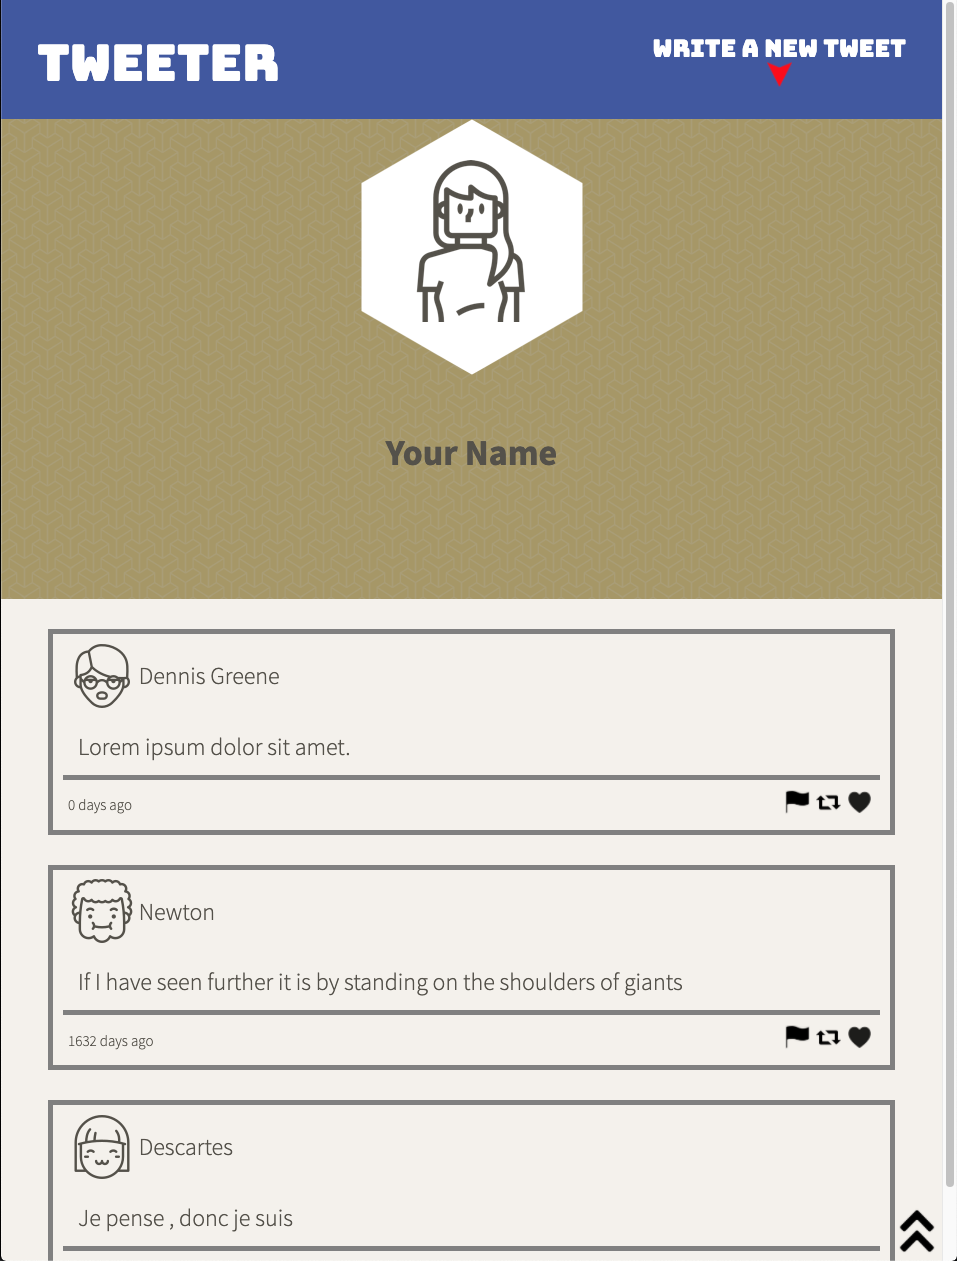
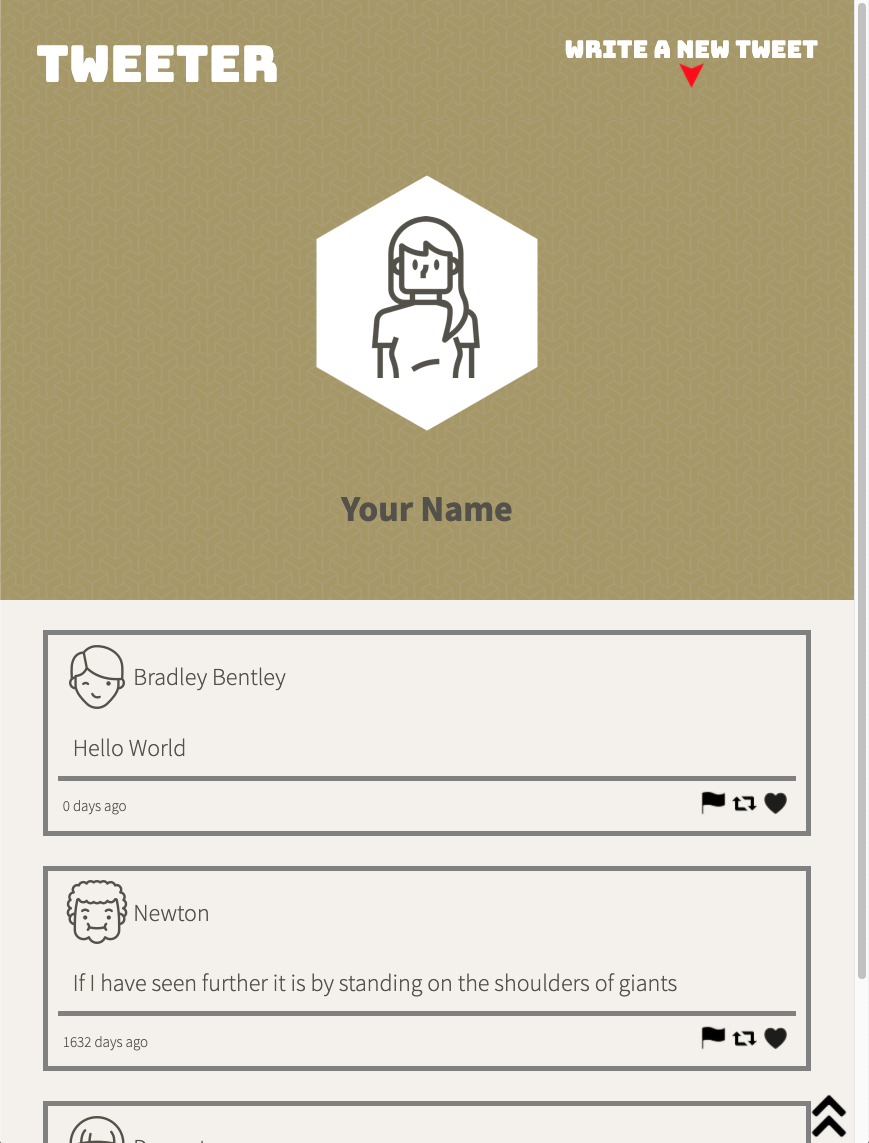
Minor detail updates to notes and screenshots

Changed region(s): [[0.0, 0.0, 0.9942, 1.0], [0.9632, 0.8574, 1.0, 0.9493]]

diff --git a/public/styles/nav.css b/public/styles/nav.css
@@ -20,3 +20,13 @@ span.title {
 nav div.new-tweet-toggle {
   text-align: center;
 }
+
+
+
+@media all and (max-width: 1024px) {
+  
+  nav {
+    background-image: url("../images/background-img.png");
+  }
+  
+}

diff --git a/public/styles/header.css b/public/styles/header.css
@@ -8,6 +8,7 @@ header {
 div.profile-img {
   display: flex;
   justify-content: center;
+  margin-top: 2.3em;
 }
 
 div.profile-name {
